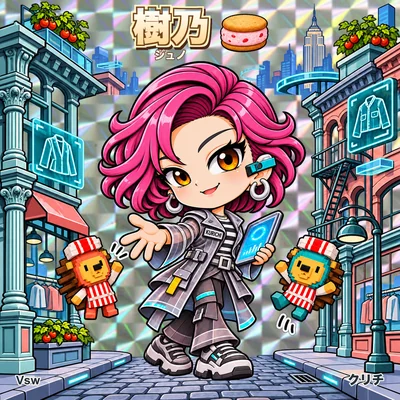
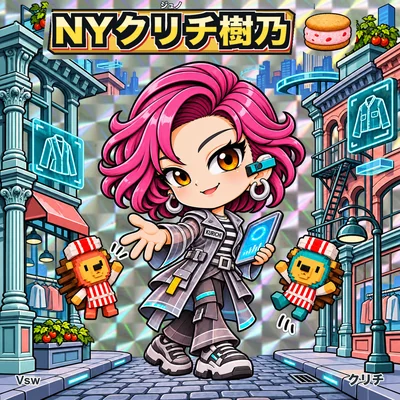
Style all front names as bold NY Kurichi titles

Changed region(s): [[0.09, 0.0, 0.9, 0.15]]

diff --git a/kurichi-stickers2/assets/characters.js b/kurichi-stickers2/assets/characters.js
@@ -1,1 +1,1 @@
-window.NY_CHARACTERS = [{"id":"01","name":"樹乃","reading":"ジュノ","roman":"JUNO","role":"セレクトショップ","hobby":"屋上でミニトマトを育てる","personality":"口数は少ないが、人と服をよく見ている。","back_text":"ソーホーに暮らす、口数の少ない服の目利き。趣味は屋上でのミニトマト栽培。「明日がいちばん甘い」と収穫を延ばしては、花屋のフローラに見つかってしまう。","connections":[{"id":"08","detail":"フローラに菜園の相談をする。"},{"id":"10","detail":"ルクスに屋上を野鳥観察の場所として開放する。"}],"borough":"Manhattan","neighborhood":"ソーホー","neighborhoodEn":"SoHo","front":"assets/stickers/01-front.webp?v=2p2-20261118","back":"assets/stickers/01-back.webp?v=favorites-20261118","thumb":"assets/stickers/01-thumb.webp","character":"assets/01-character.webp","favorite_kurichi":"いちご"},{"id":"02","name":"舞路","reading":"マイロ","roman":"MILO","role":"古着屋","hobby":"デジタルNYに小さな駅を作る","personality":"人の話を最後まで聞く、世話好き。","back_text":"ローワー・イースト・サイド在住。古着の来歴を聞くのが好きな世話焼き。夜はデジタルNYに小さな駅を作っている。完成した翌日には改築を始め、試運転係のルクスを困らせる。","connections":[{"id":"10","detail":"ルクスが駅の試運転係。"},{"id":"07","detail":"ノアに古い折り畳み椅子を貸している。"}],"borough":"Manhattan","neighborhood":"ローワー・イースト・サイド","neighborhoodEn":"Lower East Side","front":"assets/stickers/02-front.webp?v=2p2-20261118","back":"assets/stickers/02-back.webp?v=favorites-20261118","thumb":"assets/stickers/02-thumb.webp","character":"assets/02-character.webp","favorite_kurichi":"チョコ"},{"id":"03","name":"瑠比","reading":"ルビー","roman":"RUBY","role":"カフェ","hobby":"匿名で短編小説を書く","personality":"常連の小さな変化に気づく、気配り上手。","back_text":"ハーレム在住。客の小さな変化に気づくカフェスタッフ。閉店後は匿名で短編小説を書き、感想が気になって端末を何度も見る。最初の読者アイヴィーだけが、その正体を知っている。","connections":[{"id":"06","detail":"アイヴィーだけが匿名作家の正体を知る。"},{"id":"09","detail":"レンが手作り餃子を差し入れてくれる。"}],"borough":"Manhattan","neighborhood":"ハーレム","neighborhoodEn":"Harlem","front":"assets/stickers/03-front.webp?v=2p2-20261118","back":"assets/stickers/03-back.webp?v=favorites-20261118","thumb":"assets/stickers/03-thumb.webp","character":"assets/03-character.webp","favorite_kurichi":"レモンピール"},{"id":"04","name":"凱","reading":"カイ","roman":"KAI","role":"スニーカーショップ","hobby":"編み物","personality":"勝負には全力で、贈り物には慎重。","back_text":"アストリア在住。新作スニーカーには即決するのに、編み物の毛糸選びは三日悩む。手作りのリストバンドを贈ったアイヴィーから、試合に勝つたび報告が届くのを楽しみにしている。","connections":[{"id":"06","detail":"アイヴィーに試合用のリストバンドを編んだ。"}],"borough":"Queens","neighborhood":"アストリア","neighborhoodEn":"Astoria","front":"assets/stickers/04-front.webp?v=2p2-20261118","back":"assets/stickers/04-back.webp?v=favorites-20261118","thumb":"assets/stickers/04-thumb.webp","character":"assets/04-character.webp","favorite_kurichi":"抹茶"},{"id":"05","name":"玲夢","reading":"レム","roman":"REM","role":"レコードショップ","hobby":"盆栽を育てる","personality":"聞き上手で、すぐに結論を出さない。","back_text":"イースト・ヴィレッジ在住。聞き上手なレコード店員で、趣味は盆栽。鉢ごとに専用のプレイリストがあり、枝の手入れより選曲に時間がかかる。植物の相談相手は、花屋のフローラ。","connections":[{"id":"08","detail":"フローラに植物の相談をし、映画のサントラを貸す。"}],"borough":"Manhattan","neighborhood":"イースト・ヴィレッジ","neighborhoodEn":"East Village","front":"assets/stickers/05-front.webp?v=2p2-20261118","back":"assets/stickers/05-back.webp?v=favorites-20261118","thumb":"assets/stickers/05-thumb.webp","character":"assets/05-character.webp","favorite_kurichi":"ラムレーズン"},{"id":"06","name":"藍美","reading":"アイヴィー","roman":"IVY","role":"書店","hobby":"路上バスケ","personality":"普段は控えめ、好きなことには熱い。","back_text":"グリニッジ・ヴィレッジ在住。普段は小声で話す書店員だが、休日のバスケでは誰より熱い。カイが編んだリストバンドはお守り。ルビーの小説を最初に読めることも、小さな自慢だ。","connections":[{"id":"04","detail":"カイの手編みリストバンドをお守りにしている。"},{"id":"03","detail":"ルビーの小説の最初の読者。"}],"borough":"Manhattan","neighborhood":"グリニッジ・ヴィレッジ","neighborhoodEn":"Greenwich Village","front":"assets/stickers/06-front.webp?v=2p2-20261118","back":"assets/stickers/06-back.webp?v=favorites-20261118","thumb":"assets/stickers/06-thumb.webp","character":"assets/06-character.webp","favorite_kurichi":"クランベリーナッツ"},{"id":"07","name":"乃亜","reading":"ノア","roman":"NOAH","role":"デザイン雑貨店","hobby":"川辺で釣りをする","personality":"合理的に見えて、実は寄り道好き。","back_text":"ロングアイランドシティ在住。無駄のない道具を選ぶ雑貨店員なのに、休日は寄り道ばかり。趣味は川辺の釣り。マイロに借りた古い椅子が相棒で、釣れない日ほど帰ってからの話が長い。","connections":[{"id":"02","detail":"マイロに借りた古い椅子を釣りに持っていく。"},{"id":"11","detail":"ココのすごろく用の駒を作る。"}],"borough":"Queens","neighborhood":"ロングアイランドシティ","neighborhoodEn":"Long Island City","front":"assets/stickers/07-front.webp?v=2p2-20261118","back":"assets/stickers/07-back.webp?v=favorites-20261118","thumb":"assets/stickers/07-thumb.webp","character":"assets/07-character.webp","favorite_kurichi":"抹茶"},{"id":"08","name":"芙楼羅","reading":"フローラ","roman":"FLORA","role":"花屋","hobby":"昔のSF映画を観る","personality":"さっぱりしているが、弱った植物には甘い。","back_text":"ブルックリンのパークスロープ在住。さっぱりした花屋スタッフだが、弱った植物にはとことん甘い。古いSF映画が好きで、水やり中につい名ぜりふが出る。レムとはサントラを貸し借りする仲。","connections":[{"id":"05","detail":"レムと映画のサントラを貸し借りする。"},{"id":"01","detail":"ジュノの屋上菜園を見守る。"}],"borough":"Brooklyn","neighborhood":"パークスロープ","neighborhoodEn":"Park Slope","front":"assets/stickers/08-front.webp?v=2p2-20261118","back":"assets/stickers/08-back.webp?v=favorites-20261118","thumb":"assets/stickers/08-thumb.webp","character":"assets/08-character.webp","favorite_kurichi":"いちご"},{"id":"09","name":"蓮","reading":"レン","roman":"LEN","role":"アイウェアショップ","hobby":"餃子を作る","personality":"穏やかで、ときどき冗談が鋭い。","back_text":"アッパー・ウエスト・サイド在住。穏やかな物腰に、時々鋭い冗談が混じるメガネ店員。休日は餃子作り。人数分を数えたはずが毎回作りすぎ、ルビーの店への差し入れになる。","connections":[{"id":"03","detail":"余った餃子をルビーのカフェに差し入れる。"}],"borough":"Manhattan","neighborhood":"アッパー・ウエスト・サイド","neighborhoodEn":"Upper West Side","front":"assets/stickers/09-front.webp?v=2p2-20261118","back":"assets/stickers/09-back.webp?v=favorites-20261118","thumb":"assets/stickers/09-thumb.webp","character":"assets/09-character.webp","favorite_kurichi":"レモンピール"},{"id":"10","name":"瑠玖珠","reading":"ルクス","roman":"LUX","role":"モード系アパレル","hobby":"早朝の野鳥観察","personality":"見た目は大胆、話すと丁寧。","back_text":"ウィリアムズバーグ在住。大胆な服を着こなす一方、趣味は早朝の野鳥観察。鳥に夢中で左右違う靴下のまま出かけることも。ジュノの屋上菜園は、お気に入りの観察スポットだ。","connections":[{"id":"01","detail":"ジュノの屋上菜園で鳥を観察する。"},{"id":"02","detail":"マイロが作る仮想駅の試運転係。"}],"borough":"Brooklyn","neighborhood":"ウィリアムズバーグ","neighborhoodEn":"Williamsburg","front":"assets/stickers/10-front.webp?v=2p2-20261118","back":"assets/stickers/10-back.webp?v=favorites-20261118","thumb":"assets/stickers/10-thumb.webp","character":"assets/10-character.webp","favorite_kurichi":"チョコ"},{"id":"11","name":"心々","reading":"ココ","roman":"COCO","role":"Vswの看板娘","hobby":"街を歩き、自作のNYすごろくを作る","personality":"初対面でも相手の名前を覚える、街のつなぎ役。","back_text":"チェルシーに暮らすVswの看板娘。一度会った人の名前をよく覚えている。趣味は街歩きと、見つけた店をマスにする「NYすごろく」作り。寄り道で増えたショップカードが、エプロンのポケットからいつもはみ出している。","connections":[{"id":"07","detail":"ノアにすごろくの駒を作ってもらう。"},{"id":"all","detail":"みんなのお店をすごろくのマスにしている。"}],"borough":"Manhattan","neighborhood":"チェルシー","neighborhoodEn":"Chelsea","front":"assets/stickers/11-front.webp?v=2p2-20261118","back":"assets/stickers/11-back.webp?v=favorites-20261118","thumb":"assets/stickers/11-thumb.webp","character":"assets/11-character.webp","favorite_kurichi":"プレーン"}];
+window.NY_CHARACTERS = [{"id":"01","name":"樹乃","reading":"ジュノ","roman":"JUNO","role":"セレクトショップ","hobby":"屋上でミニトマトを育てる","personality":"口数は少ないが、人と服をよく見ている。","back_text":"ソーホーに暮らす、口数の少ない服の目利き。趣味は屋上でのミニトマト栽培。「明日がいちばん甘い」と収穫を延ばしては、花屋のフローラに見つかってしまう。","connections":[{"id":"08","detail":"フローラに菜園の相談をする。"},{"id":"10","detail":"ルクスに屋上を野鳥観察の場所として開放する。"}],"borough":"Manhattan","neighborhood":"ソーホー","neighborhoodEn":"SoHo","front":"assets/stickers/01-front.webp?v=ny-title-20261118","back":"assets/stickers/01-back.webp?v=favorites-20261118","thumb":"assets/stickers/01-thumb.webp?v=ny-title-20261118","character":"assets/01-character.webp","favorite_kurichi":"いちご","front_title":"NYクリチ樹乃"},{"id":"02","name":"舞路","reading":"マイロ","roman":"MILO","role":"古着屋","hobby":"デジタルNYに小さな駅を作る","personality":"人の話を最後まで聞く、世話好き。","back_text":"ローワー・イースト・サイド在住。古着の来歴を聞くのが好きな世話焼き。夜はデジタルNYに小さな駅を作っている。完成した翌日には改築を始め、試運転係のルクスを困らせる。","connections":[{"id":"10","detail":"ルクスが駅の試運転係。"},{"id":"07","detail":"ノアに古い折り畳み椅子を貸している。"}],"borough":"Manhattan","neighborhood":"ローワー・イースト・サイド","neighborhoodEn":"Lower East Side","front":"assets/stickers/02-front.webp?v=ny-title-20261118","back":"assets/stickers/02-back.webp?v=favorites-20261118","thumb":"assets/stickers/02-thumb.webp?v=ny-title-20261118","character":"assets/02-character.webp","favorite_kurichi":"チョコ","front_title":"NYクリチ舞路"},{"id":"03","name":"瑠比","reading":"ルビー","roman":"RUBY","role":"カフェ","hobby":"匿名で短編小説を書く","personality":"常連の小さな変化に気づく、気配り上手。","back_text":"ハーレム在住。客の小さな変化に気づくカフェスタッフ。閉店後は匿名で短編小説を書き、感想が気になって端末を何度も見る。最初の読者アイヴィーだけが、その正体を知っている。","connections":[{"id":"06","detail":"アイヴィーだけが匿名作家の正体を知る。"},{"id":"09","detail":"レンが手作り餃子を差し入れてくれる。"}],"borough":"Manhattan","neighborhood":"ハーレム","neighborhoodEn":"Harlem","front":"assets/stickers/03-front.webp?v=ny-title-20261118","back":"assets/stickers/03-back.webp?v=favorites-20261118","thumb":"assets/stickers/03-thumb.webp?v=ny-title-20261118","character":"assets/03-character.webp","favorite_kurichi":"レモンピール","front_title":"NYクリチ瑠比"},{"id":"04","name":"凱","reading":"カイ","roman":"KAI","role":"スニーカーショップ","hobby":"編み物","personality":"勝負には全力で、贈り物には慎重。","back_text":"アストリア在住。新作スニーカーには即決するのに、編み物の毛糸選びは三日悩む。手作りのリストバンドを贈ったアイヴィーから、試合に勝つたび報告が届くのを楽しみにしている。","connections":[{"id":"06","detail":"アイヴィーに試合用のリストバンドを編んだ。"}],"borough":"Queens","neighborhood":"アストリア","neighborhoodEn":"Astoria","front":"assets/stickers/04-front.webp?v=ny-title-20261118","back":"assets/stickers/04-back.webp?v=favorites-20261118","thumb":"assets/stickers/04-thumb.webp?v=ny-title-20261118","character":"assets/04-character.webp","favorite_kurichi":"抹茶","front_title":"NYクリチ凱"},{"id":"05","name":"玲夢","reading":"レム","roman":"REM","role":"レコードショップ","hobby":"盆栽を育てる","personality":"聞き上手で、すぐに結論を出さない。","back_text":"イースト・ヴィレッジ在住。聞き上手なレコード店員で、趣味は盆栽。鉢ごとに専用のプレイリストがあり、枝の手入れより選曲に時間がかかる。植物の相談相手は、花屋のフローラ。","connections":[{"id":"08","detail":"フローラに植物の相談をし、映画のサントラを貸す。"}],"borough":"Manhattan","neighborhood":"イースト・ヴィレッジ","neighborhoodEn":"East Village","front":"assets/stickers/05-front.webp?v=ny-title-20261118","back":"assets/stickers/05-back.webp?v=favorites-20261118","thumb":"assets/stickers/05-thumb.webp?v=ny-title-20261118","character":"assets/05-character.webp","favorite_kurichi":"ラムレーズン","front_title":"NYクリチ玲夢"},{"id":"06","name":"藍美","reading":"アイヴィー","roman":"IVY","role":"書店","hobby":"路上バスケ","personality":"普段は控えめ、好きなことには熱い。","back_text":"グリニッジ・ヴィレッジ在住。普段は小声で話す書店員だが、休日のバスケでは誰より熱い。カイが編んだリストバンドはお守り。ルビーの小説を最初に読めることも、小さな自慢だ。","connections":[{"id":"04","detail":"カイの手編みリストバンドをお守りにしている。"},{"id":"03","detail":"ルビーの小説の最初の読者。"}],"borough":"Manhattan","neighborhood":"グリニッジ・ヴィレッジ","neighborhoodEn":"Greenwich Village","front":"assets/stickers/06-front.webp?v=ny-title-20261118","back":"assets/stickers/06-back.webp?v=favorites-20261118","thumb":"assets/stickers/06-thumb.webp?v=ny-title-20261118","character":"assets/06-character.webp","favorite_kurichi":"クランベリーナッツ","front_title":"NYクリチ藍美"},{"id":"07","name":"乃亜","reading":"ノア","roman":"NOAH","role":"デザイン雑貨店","hobby":"川辺で釣りをする","personality":"合理的に見えて、実は寄り道好き。","back_text":"ロングアイランドシティ在住。無駄のない道具を選ぶ雑貨店員なのに、休日は寄り道ばかり。趣味は川辺の釣り。マイロに借りた古い椅子が相棒で、釣れない日ほど帰ってからの話が長い。","connections":[{"id":"02","detail":"マイロに借りた古い椅子を釣りに持っていく。"},{"id":"11","detail":"ココのすごろく用の駒を作る。"}],"borough":"Queens","neighborhood":"ロングアイランドシティ","neighborhoodEn":"Long Island City","front":"assets/stickers/07-front.webp?v=ny-title-20261118","back":"assets/stickers/07-back.webp?v=favorites-20261118","thumb":"assets/stickers/07-thumb.webp?v=ny-title-20261118","character":"assets/07-character.webp","favorite_kurichi":"抹茶","front_title":"NYクリチ乃亜"},{"id":"08","name":"芙楼羅","reading":"フローラ","roman":"FLORA","role":"花屋","hobby":"昔のSF映画を観る","personality":"さっぱりしているが、弱った植物には甘い。","back_text":"ブルックリンのパークスロープ在住。さっぱりした花屋スタッフだが、弱った植物にはとことん甘い。古いSF映画が好きで、水やり中につい名ぜりふが出る。レムとはサントラを貸し借りする仲。","connections":[{"id":"05","detail":"レムと映画のサントラを貸し借りする。"},{"id":"01","detail":"ジュノの屋上菜園を見守る。"}],"borough":"Brooklyn","neighborhood":"パークスロープ","neighborhoodEn":"Park Slope","front":"assets/stickers/08-front.webp?v=ny-title-20261118","back":"assets/stickers/08-back.webp?v=favorites-20261118","thumb":"assets/stickers/08-thumb.webp?v=ny-title-20261118","character":"assets/08-character.webp","favorite_kurichi":"いちご","front_title":"NYクリチ芙楼羅"},{"id":"09","name":"蓮","reading":"レン","roman":"LEN","role":"アイウェアショップ","hobby":"餃子を作る","personality":"穏やかで、ときどき冗談が鋭い。","back_text":"アッパー・ウエスト・サイド在住。穏やかな物腰に、時々鋭い冗談が混じるメガネ店員。休日は餃子作り。人数分を数えたはずが毎回作りすぎ、ルビーの店への差し入れになる。","connections":[{"id":"03","detail":"余った餃子をルビーのカフェに差し入れる。"}],"borough":"Manhattan","neighborhood":"アッパー・ウエスト・サイド","neighborhoodEn":"Upper West Side","front":"assets/stickers/09-front.webp?v=ny-title-20261118","back":"assets/stickers/09-back.webp?v=favorites-20261118","thumb":"assets/stickers/09-thumb.webp?v=ny-title-20261118","character":"assets/09-character.webp","favorite_kurichi":"レモンピール","front_title":"NYクリチ蓮"},{"id":"10","name":"瑠玖珠","reading":"ルクス","roman":"LUX","role":"モード系アパレル","hobby":"早朝の野鳥観察","personality":"見た目は大胆、話すと丁寧。","back_text":"ウィリアムズバーグ在住。大胆な服を着こなす一方、趣味は早朝の野鳥観察。鳥に夢中で左右違う靴下のまま出かけることも。ジュノの屋上菜園は、お気に入りの観察スポットだ。","connections":[{"id":"01","detail":"ジュノの屋上菜園で鳥を観察する。"},{"id":"02","detail":"マイロが作る仮想駅の試運転係。"}],"borough":"Brooklyn","neighborhood":"ウィリアムズバーグ","neighborhoodEn":"Williamsburg","front":"assets/stickers/10-front.webp?v=ny-title-20261118","back":"assets/stickers/10-back.webp?v=favorites-20261118","thumb":"assets/stickers/10-thumb.webp?v=ny-title-20261118","character":"assets/10-character.webp","favorite_kurichi":"チョコ","front_title":"NYクリチ瑠玖珠"},{"id":"11","name":"心々","reading":"ココ","roman":"COCO","role":"Vswの看板娘","hobby":"街を歩き、自作のNYすごろくを作る","personality":"初対面でも相手の名前を覚える、街のつなぎ役。","back_text":"チェルシーに暮らすVswの看板娘。一度会った人の名前をよく覚えている。趣味は街歩きと、見つけた店をマスにする「NYすごろく」作り。寄り道で増えたショップカードが、エプロンのポケットからいつもはみ出している。","connections":[{"id":"07","detail":"ノアにすごろくの駒を作ってもらう。"},{"id":"all","detail":"みんなのお店をすごろくのマスにしている。"}],"borough":"Manhattan","neighborhood":"チェルシー","neighborhoodEn":"Chelsea","front":"assets/stickers/11-front.webp?v=ny-title-20261118","back":"assets/stickers/11-back.webp?v=favorites-20261118","thumb":"assets/stickers/11-thumb.webp?v=ny-title-20261118","character":"assets/11-character.webp","favorite_kurichi":"プレーン","front_title":"NYクリチ心々"}];

diff --git a/kurichi-stickers2/index.html b/kurichi-stickers2/index.html
@@ -11,17 +11,17 @@
   <meta property="og:url" content="https://vsw.co.jp/kurichi-stickers2/">
   <meta property="og:title" content="この街には、好きがある。｜NY KURICHI STICKER COLLECTION">
   <meta property="og:description" content="少し未来のNY。お店で出会った11人には、まだ知らない顔がある。">
-  <meta property="og:image" content="https://vsw.co.jp/kurichi-stickers2/assets/og-image.jpg?v=2p2-20261118">
+  <meta property="og:image" content="https://vsw.co.jp/kurichi-stickers2/assets/og-image.jpg?v=ny-title-20261118">
   <meta property="og:image:width" content="1200">
   <meta property="og:image:height" content="630">
   <meta property="og:image:alt" content="少し未来のニューヨークに暮らす11人のキャラクター">
   <meta name="twitter:card" content="summary_large_image">
-  <meta name="twitter:image" content="https://vsw.co.jp/kurichi-stickers2/assets/og-image.jpg?v=2p2-20261118">
+  <meta name="twitter:image" content="https://vsw.co.jp/kurichi-stickers2/assets/og-image.jpg?v=ny-title-20261118">
   <meta name="twitter:image:alt" content="少し未来のニューヨークに暮らす11人のキャラクター">
   <title>この街には、好きがある。｜NY KURICHI STICKER COLLECTION</title>
   <link rel="icon" href="../kurichi-stickers/assets/favicon.svg" type="image/svg+xml">
   <link rel="stylesheet" href="style.css">
-  <script src="assets/characters.js?v=favorites-20261118" defer></script>
+  <script src="assets/characters.js?v=ny-title-20261118" defer></script>
   <script src="script.js?v=favorites-20261118" defer></script>
 </head>
 <body>
@@ -86,7 +86,7 @@
   <footer><a class="footer-brand" href="#top">NY KURICHI <span>STICKER COLLECTION</span></a><div><a href="https://vsw.co.jp/" target="_blank" rel="noopener noreferrer">Vsw 公式サイト ↗</a><a href="../kurichi-stickers/">クリチのシールコレクション ↗</a></div><small>© Vsw. All rights reserved.</small></footer>
 
   <dialog id="character-dialog" aria-labelledby="dialog-name" aria-describedby="dialog-summary">
-    <div class="dialog-wrap"><div class="dialog-top"><span id="dialog-id">NO. 01 / MANHATTAN</span><button class="dialog-close" type="button" aria-label="詳細を閉じる">×</button></div><div class="dialog-layout"><div class="dialog-visual"><img id="dialog-image" src="assets/stickers/01-front.webp" alt="" width="900" height="900"><div class="face-switch" role="group" aria-label="シールの面を切り替える"><button type="button" data-face="front" aria-pressed="true">表を見る</button><button type="button" data-face="back" aria-pressed="false">裏を見る</button></div></div><div class="dialog-copy"><span id="dialog-roman">JUNO</span><h2 id="dialog-name">樹乃 <small>ジュノ</small></h2><p id="dialog-summary" class="dialog-summary">ソーホーに暮らし、セレクトショップで働く。</p><div class="profile-grid"><div><span>WORK</span><strong id="dialog-role"></strong></div><div><span>NEIGHBORHOOD</span><strong id="dialog-neighborhood"></strong></div><div><span>AFTER HOURS</span><strong id="dialog-hobby"></strong></div><div><span>好きなクリチ</span><strong id="dialog-favorite-kurichi"></strong></div><div><span>CHARACTER</span><strong id="dialog-personality"></strong></div></div><p id="dialog-story" class="dialog-story"></p><div class="dialog-related"><span>この街の、つながり</span><div id="dialog-connections"></div></div><div class="dialog-nav"><button id="prev-character" type="button">← 前の人</button><span id="dialog-position">01 / 11</span><button id="next-character" type="button">次の人 →</button></div></div></div></div>
+    <div class="dialog-wrap"><div class="dialog-top"><span id="dialog-id">NO. 01 / MANHATTAN</span><button class="dialog-close" type="button" aria-label="詳細を閉じる">×</button></div><div class="dialog-layout"><div class="dialog-visual"><img id="dialog-image" src="assets/stickers/01-front.webp?v=ny-title-20261118" alt="" width="900" height="900"><div class="face-switch" role="group" aria-label="シールの面を切り替える"><button type="button" data-face="front" aria-pressed="true">表を見る</button><button type="button" data-face="back" aria-pressed="false">裏を見る</button></div></div><div class="dialog-copy"><span id="dialog-roman">JUNO</span><h2 id="dialog-name">樹乃 <small>ジュノ</small></h2><p id="dialog-summary" class="dialog-summary">ソーホーに暮らし、セレクトショップで働く。</p><div class="profile-grid"><div><span>WORK</span><strong id="dialog-role"></strong></div><div><span>NEIGHBORHOOD</span><strong id="dialog-neighborhood"></strong></div><div><span>AFTER HOURS</span><strong id="dialog-hobby"></strong></div><div><span>好きなクリチ</span><strong id="dialog-favorite-kurichi"></strong></div><div><span>CHARACTER</span><strong id="dialog-personality"></strong></div></div><p id="dialog-story" class="dialog-story"></p><div class="dialog-related"><span>この街の、つながり</span><div id="dialog-connections"></div></div><div class="dialog-nav"><button id="prev-character" type="button">← 前の人</button><span id="dialog-position">01 / 11</span><button id="next-character" type="button">次の人 →</button></div></div></div></div>
   </dialog>
 </body>
 </html>

diff --git a/kurichi-stickers2/README.md b/kurichi-stickers2/README.md
@@ -35,3 +35,7 @@ All11 front/back portraits and hero characters use the approved approximately2.2
 ## Favorite Kurichi field
 
 Each character includes `favorite_kurichi`, matching the product depicted beside the front name. It is shown on the physical reverse, dialog profile, and no-script profile. Updated reverse artwork version: `favorites-20261118`.
+
+## Front title design
+
+The front title is `NYクリチ` plus the existing character name, stored as `front_title`. Headers use bold outlined lettering and a gold plate; the favorite-flavor product remains to the right. Character portraits and printed backs are unchanged. Front/thumb/OG cache version: `ny-title-20261118`.
